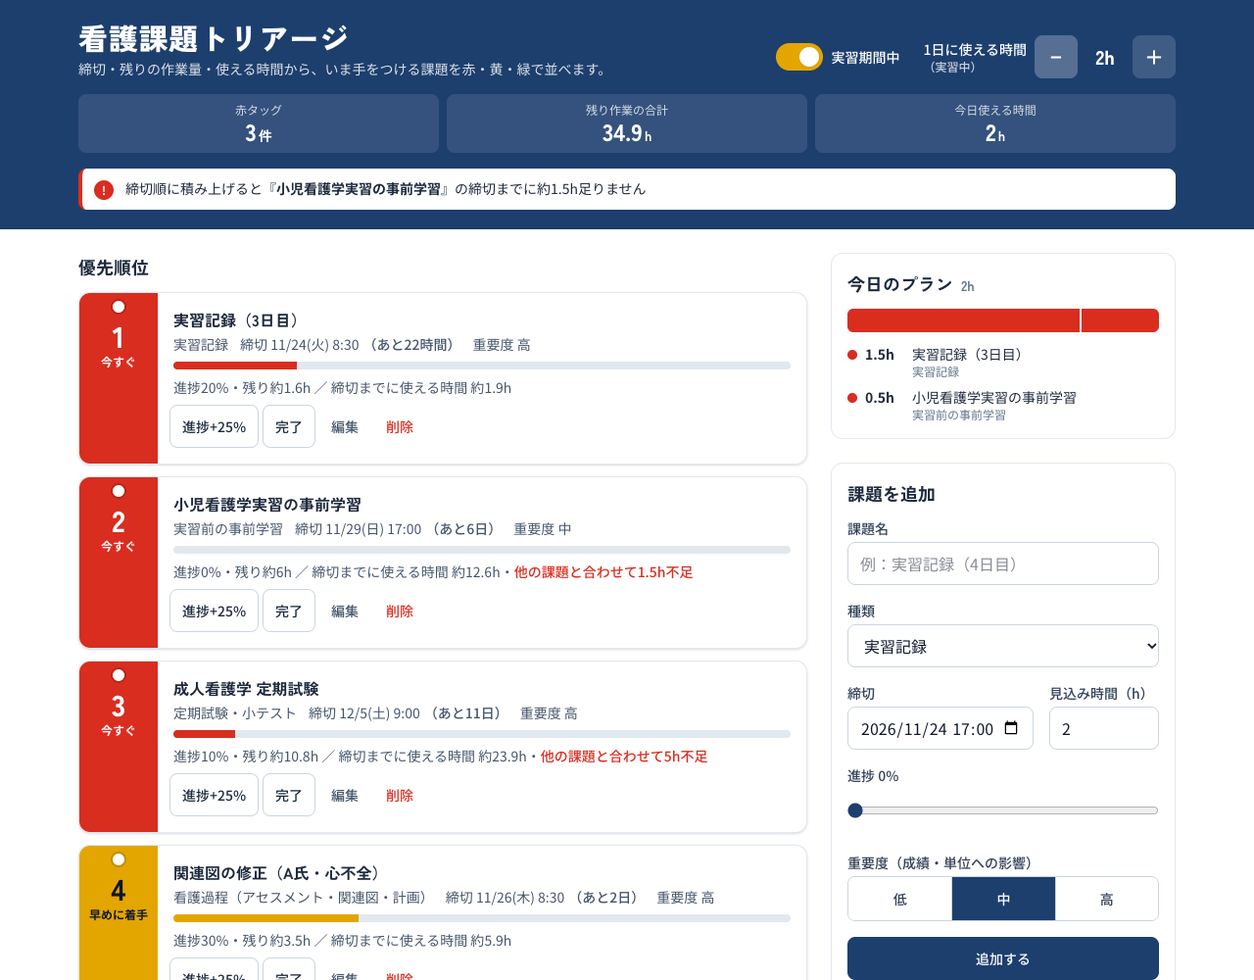
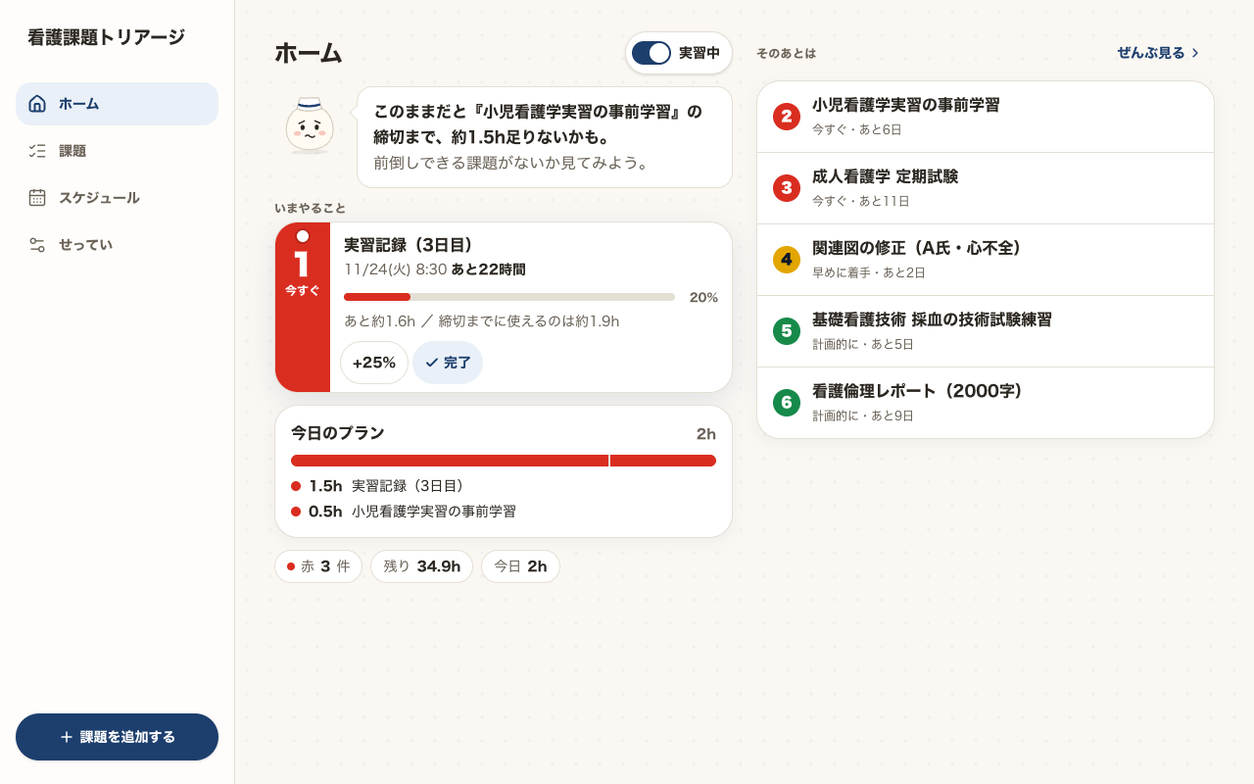
feat: 背の低いスマホでもホームを1画面に、SPEC・README を新しい画面に合わせて更新
- 高さ740px以下のスマホ（iPhone SE など）では、間隔を詰め、プランを1件・まとめを非表示・
  吹き出しを1行目だけにする。下の余白をメニューの高さに合わせる
- ホームの時間不足は吹き出しで伝える（警告の行は課題画面だけ）
- SPEC.md：2・3・4・8・9・10・14章を、画面の分割・夢のタネ寄りのデザイン・
  実習スケジュール・キャラクターに合わせて更新
- README：スクリーンショットを撮り直し、画面ごとの機能とキャラクターの絵の置き方を追記

diff --git a/src/components/HomeScreen.tsx b/src/components/HomeScreen.tsx
@@ -2,11 +2,13 @@ import { motion } from 'framer-motion'
 import { ChevronRight, Plus } from 'lucide-react'
 import type { ReactNode } from 'react'
 import { TRIAGE_STYLE } from '../constants'
+import type { Speech } from '../logic/speech'
 import { enter } from '../motion'
 import type { Analysed, Plan } from '../types'
 import { formatHours, formatRemaining } from '../utils/format'
-import { OverloadWarning } from './OverloadWarning'
+import { SHORT_SCREEN, useMedia } from '../utils/useMedia'
 import { PracticeSwitch } from './PracticeSwitch'
+import { CharaSpeech } from './Speech'
 import { TaskCard } from './TaskCard'
 import { TodayPlan } from './TodayPlan'
 
@@ -15,11 +17,10 @@ interface Props {
   plan: Plan
   practice: boolean
   practiceNote: string | null
-  shortage: Analysed | undefined
   redCount: number
   remainTotal: number
-  /** キャラクターと吹き出し（段階3で入る） */
-  greeting?: ReactNode
+  /** キャラクターのひとこと（時間不足の警告もここで伝える） */
+  speech: Speech
   onTogglePractice: () => void
   onAdvance: (id: string) => void
   onComplete: (id: string) => void
@@ -41,10 +42,9 @@ export function HomeScreen({
   plan,
   practice,
   practiceNote,
-  shortage,
   redCount,
   remainTotal,
-  greeting,
+  speech,
   onTogglePractice,
   onAdvance,
   onComplete,
@@ -53,17 +53,19 @@ export function HomeScreen({
 }: Props) {
   const top = analysed[0]
   const rest = analysed.slice(1, 6)
+  // 背の低いスマホでは、1画面に収めるため項目を減らす（夢のタネと同じ考え方）
+  const short = useMedia(SHORT_SCREEN)
 
   return (
     <div className="grid grid-cols-1 gap-3 two:grid-cols-[minmax(0,1fr)_minmax(0,1fr)] two:gap-6">
-      <div className="flex min-w-0 flex-col gap-3">
+      <div className="flex min-w-0 flex-col gap-3 short:gap-2">
         <div className="flex items-center justify-between gap-3">
           <p className="text-sm font-bold text-ink-muted wide:hidden">看護課題トリアージ</p>
           <h1 className="ui-page-title hidden wide:block">ホーム</h1>
           <PracticeSwitch on={practice} note={practiceNote} onToggle={onTogglePractice} />
         </div>
 
-        {greeting ?? <OverloadWarning a={shortage} />}
+        <CharaSpeech speech={speech} size={short ? 56 : 72} firstLineOnly={short} />
 
         <motion.section aria-labelledby="now-heading" {...enter(0)}>
           <h2 id="now-heading" className="ui-section-label mb-1.5">
@@ -86,10 +88,10 @@ export function HomeScreen({
         </motion.section>
 
         <motion.div {...enter(0.08)}>
-          <TodayPlan plan={plan} limit={3} />
+          <TodayPlan plan={plan} limit={short ? 1 : 3} />
         </motion.div>
 
-        <div className="flex flex-wrap gap-2" aria-label="まとめ">
+        <div className="flex flex-wrap gap-2 short:hidden" aria-label="まとめ">
           <Pill>
             <span aria-hidden className={`size-2 rounded-full ${TRIAGE_STYLE.red.dot}`} />赤
             <b className="text-ink tabular-nums">{redCount}</b>件

diff --git a/src/App.tsx b/src/App.tsx
@@ -1,7 +1,6 @@
 import { AnimatePresence, motion } from 'framer-motion'
 import { useCallback, useMemo, useState } from 'react'
 import { HomeScreen } from './components/HomeScreen'
-import { CharaSpeech } from './components/Speech'
 import { BottomNav, DesktopNav, type Screen } from './components/Nav'
 import { ScheduleScreen } from './components/ScheduleScreen'
 import { SettingsScreen } from './components/SettingsScreen'
@@ -77,7 +76,7 @@ export default function App() {
     <div className="min-h-dvh wide:pl-60">
       <DesktopNav current={screen} onNavigate={navigate} onAdd={openAdd} />
 
-      <main className="mx-auto max-w-md px-4 pt-5 pb-28 wide:max-w-5xl wide:px-8 wide:pt-8 wide:pb-12">
+      <main className="mx-auto max-w-md px-4 pt-5 pb-[calc(5.5rem+env(safe-area-inset-bottom))] short:pt-3 short:pb-[calc(4.5rem+env(safe-area-inset-bottom))] wide:max-w-5xl wide:px-8 wide:pt-8 wide:pb-12">
         {/* 画面の切り替えは位置を動かさず、透明度だけのフェード（夢のタネと同じ） */}
         <AnimatePresence mode="wait" initial={false}>
           <motion.div
@@ -93,10 +92,9 @@ export default function App() {
                 plan={plan}
                 practice={practice}
                 practiceNote={practiceNote}
-                shortage={shortage}
                 redCount={redCount}
                 remainTotal={remainTotal}
-                greeting={<CharaSpeech speech={speech} />}
+                speech={speech}
                 onTogglePractice={togglePractice}
                 onAdvance={advance}
                 onComplete={complete}

diff --git a/src/components/Speech.tsx b/src/components/Speech.tsx
@@ -10,7 +10,10 @@ function Bubble({ lines }: { lines: string[] }) {
         className="absolute top-5 -left-1.5 size-3 rotate-45 border-b border-l border-line bg-surface"
       />
       {lines.map((line, i) => (
-        <p key={i} className={`leading-relaxed ${i === 0 ? 'font-bold' : 'text-ink-muted'}`}>
+        <p
+          key={i}
+          className={`leading-relaxed short:text-[15px] ${i === 0 ? 'font-bold' : 'text-ink-muted'}`}
+        >
           {line}
         </p>
       ))}
@@ -19,11 +22,20 @@ function Bubble({ lines }: { lines: string[] }) {
 }
 
 /** キャラクター＋吹き出し */
-export function CharaSpeech({ speech, size = 72 }: { speech: SpeechData; size?: number }) {
+export function CharaSpeech({
+  speech,
+  size = 72,
+  firstLineOnly = false,
+}: {
+  speech: SpeechData
+  size?: number
+  /** 背の低い画面では1行目だけにする */
+  firstLineOnly?: boolean
+}) {
   return (
     <div className="flex items-start gap-3" aria-live="polite">
       <Chara mood={speech.mood} size={size} />
-      <Bubble lines={speech.lines} />
+      <Bubble lines={firstLineOnly ? speech.lines.slice(0, 1) : speech.lines} />
     </div>
   )
 }

diff --git a/src/utils/useMedia.ts b/src/utils/useMedia.ts
@@ -1,0 +1,17 @@
+import { useSyncExternalStore } from 'react'
+
+/** メディアクエリに合っているか（画面サイズが変わると更新される） */
+export function useMedia(query: string): boolean {
+  return useSyncExternalStore(
+    (onChange) => {
+      const m = window.matchMedia(query)
+      m.addEventListener('change', onChange)
+      return () => m.removeEventListener('change', onChange)
+    },
+    () => window.matchMedia(query).matches,
+    () => false,
+  )
+}
+
+/** 背の低いスマホ（iPhone SE など）。ホームを1画面に収めるため、項目を減らす */
+export const SHORT_SCREEN = '(max-width: 860px) and (max-height: 740px)'

diff --git a/src/index.css b/src/index.css
@@ -36,6 +36,9 @@
   --breakpoint-two: 1100px;
 }
 
+/* 背の低いスマホ（iPhone SE など）。utils/useMedia.ts の SHORT_SCREEN と同じ条件 */
+@custom-variant short (@media (max-width: 860px) and (max-height: 740px));
+
 @media (prefers-color-scheme: dark) {
   :root {
     --color-paper: #1c1915;

diff --git a/SPEC.md b/SPEC.md
@@ -17,7 +17,8 @@
 - Tailwind CSS
 - 状態管理：React の useReducer + Context（外部ライブラリなし）
 - 保存：localStorage（バックエンドなし）
-- テスト：Vitest（優先度ロジックは必ずテストを書く）
+- アニメーション：framer-motion、アイコン：lucide-react
+- テスト：Vitest（優先度ロジックは必ずテストを書く。日付の境界を確かめるため TZ=Asia/Tokyo で実行）
 - デプロイ：Vercel
 - リポジトリ：`~/dev/nurse-triage`
 
@@ -26,30 +27,30 @@
 ```
 src/
   main.tsx
-  App.tsx
+  App.tsx             # 画面の切り替え（useState。ルーターは使わない）
   types.ts            # 型定義
-  constants.ts        # 課題の種類プリセット
-  logic/
-    priority.ts       # 優先度計算（純粋関数のみ）
-    priority.test.ts
+  constants.ts        # 課題の種類プリセット・タッグの色
+  motion.ts           # 動きの決まり（長さ・距離・緩み方）
+  index.css           # 色のトークン・共通クラス（ui-*）
+  assets/chara/       # キャラクターの画像（置くと自動で使われる）
+  logic/              # 純粋関数とテスト
+    priority.ts       # 優先度計算
     plan.ts           # 今日のプラン割り振り
-    plan.test.ts
+    schedule.ts       # 実習スケジュール（日ごとの使える時間）
+    speech.ts         # キャラクターのひとこと
   store/
     reducer.ts
     storage.ts        # localStorage の読み書き（try/catch）
     sample.ts         # サンプル課題
+    context.ts / StoreProvider.tsx
   components/
-    Header.tsx        # タイトル・設定・集計
-    OverloadWarning.tsx
-    TaskCard.tsx
-    TaskList.tsx
-    TodayPlan.tsx
-    TaskForm.tsx
-    DoneList.tsx
-    HowItWorks.tsx
-    UndoToast.tsx
+    HomeScreen.tsx / TasksScreen.tsx / ScheduleScreen.tsx / SettingsScreen.tsx
+    Nav.tsx           # 下のメニュー（スマホ）・左のメニュー（PC）
+    TaskSheet.tsx     # 課題の追加・編集パネル（中に TaskForm.tsx）
+    TaskCard.tsx / TodayPlan.tsx / Chara.tsx / Speech.tsx / UndoToast.tsx など
   utils/
     format.ts         # 日付・時間の表示
+    useMedia.ts       # 画面サイズの判定
 ```
 
 ## 4. データモデル（types.ts）
@@ -71,10 +72,14 @@ interface Task {
 }
 
 interface Settings {
-  practiceMode: boolean;   // 実習期間中か
+  practiceMode: boolean;   // 実習期間中か（スケジュールに今日以降の印がないとき使う）
   hoursPractice: number;   // 実習中の1日の作業時間（初期値 2.5）
   hoursNormal: number;     // 通常期の1日の作業時間（初期値 4）
+  practiceOverride?: { date: string; on: boolean }; // 今日だけの手動切り替え
 }
+
+type DayKind = "practice" | "off";          // 印のない日は通常日
+type Schedule = Record<string, DayKind>;    // キーはローカル時刻の YYYY-MM-DD
 
 type Triage = "red" | "yellow" | "green";
 ```
@@ -133,40 +138,51 @@ score    = (0.6 × min(ratio, 2)/2 + 0.4 × 1/(1 + max(days, 0))) × w × imp ×
 
 ## 8. 画面
 
-**ヘッダー（紺の帯）**
-- タイトル「看護課題トリアージ」と一行説明
-- 実習期間中トグル、1日に使える時間（モードごとに別の値を保存）
-- 集計3つ：赤タッグの件数／残り作業の合計h／今日使える時間h
-- 時間不足の警告：締切が最も早い不足課題について「締切順に積み上げると『○○』の締切までに約2h足りません」
+スマホは主要な画面を1画面に収め、下のピル型メニューで移る。861px 以上は左にメニューを常に出す。
 
-**左：優先順位リスト（TaskCard）**
-- 左端にトリアージタッグ（色・順位番号・ラベル・紐穴の丸）
-- 課題名／種類・締切「11/24(火) 8:30」・残り時間「あと14時間」「あと3日」・重要度
-- 進捗バー
-- 根拠の一行：「進捗20%・残り約1.6h ／ 締切までに使える時間 約0.8h・他の課題と合わせて0.8h不足（赤字）」
-- ボタン：進捗+25%（100%で自動完了）／完了／編集／削除
+**ホーム**（スマホでは1画面に収める。390×844、iPhone SE の 375×667 で確認）
+- キャラクターと吹き出し：状況に応じたひとこと（`logic/speech.ts`）。時間不足の警告もここで伝える
+  - 優先順：課題なし → 期限切れ → 時間不足 → 24時間以内 → 今日は休み → 追い込まれている → ふつう
+- 右上に「実習中」スイッチ（スケジュールがあれば自動、今日だけ手動で切り替え可）
+- いまやること：1位の課題のカード（タッグ・締切・残り時間・進捗・根拠・+25%・完了）
+- 今日のプラン：積み上げバーと上位3件
+- まとめ：赤の件数／残りの合計／今日の時間
+- 課題を追加するボタン
+- 高さ740px以下のスマホでは、間隔を詰め、プランを1件・まとめを非表示・吹き出しを1行目だけにする
+- 1100px 以上では右に2〜6位の一覧
 
-**右：今日のプラン → 課題フォーム → 優先度の決め方（折りたたみ）**
-- フォーム：課題名、種類、締切（datetime-local）、見込み時間、進捗スライダー、重要度（低・中・高のセグメント）
-- 編集中は見出しを「課題を編集」、ボタンを「保存する」にして、キャンセルを出す
-- 「優先度の決め方」の中に「サンプルに戻す」「すべて消す」
+**課題**：未完了／完了のタブ
+- 未完了：優先順位どおりのカード。左端にトリアージタッグ（色・順位番号・ラベル・紐穴の丸）、課題名／種類・締切「11/24(火) 8:30」・残り時間「あと14時間」「あと3日」・重要度、進捗バー、根拠の一行「あと約1.6h ／ 締切までに使えるのは約0.8h・ほかの課題と合わせると0.8h足りない（危険色）」、+25%（100%で自動完了）／完了／編集／削除
+- 完了：「戻す」で未完了に戻す
 
-**下：完了した課題（折りたたみ）**。「戻す」で未完了に戻す。
+**スケジュール**：月カレンダーで日をタップして「実習／休み」の印を付ける（同じ印の再タップで外す）。期間でまとめて塗る（開始日・終了日・種類・土日を除く）
 
-**トースト**：完了・削除・全消去のあと5秒間「元に戻す」を出す（直前の状態を1つ保持）。
+**せってい**：実習期間中、1日に使える時間（実習中・ふだんを並べて変える）、優先度の決め方（折りたたみ）、サンプルに戻す・すべて消す
+
+**課題の追加・編集**：スマホは画面下からせり上がるパネル、PC は中央のダイアログ。課題名、種類、締切（datetime-local）、見込み時間、進捗スライダー、成績・単位への影響（低・中・高）。Esc で閉じる
+
+**トースト**：完了・削除・全消去・サンプルに戻すのあと5秒間「元に戻す」を出す（直前の課題と完了一覧を1つ保持）
 
 ## 9. デザイン
 
-- 地は白、ヘッダーは紺 `#1d3f6e`、タッグ色は赤 `#d92d20`／黄 `#e3a600`（文字は濃色）／緑 `#178a4a`
-- フォント：見出し Zen Kaku Gothic New（700/900）、本文 Noto Sans JP
-- ダークモード対応（`prefers-color-scheme`）
-- 860px以下は1カラム（ヘッダー → リスト → プラン → フォーム）。360px幅で横スクロールが出ないこと
-- ボタンなどのタップ領域は44px以上。入力欄は16px（iOSでズームさせない）
-- 絵文字アイコンは使わない
+「夢のタネ」と同じ作り方にそろえ、生成りの紙のような温かい画面にする（Tailwind の初期値の色をそのまま使わない）。
+
+- **色**は役割ごとのトークン（`index.css` の `@theme`）。ダークモードは CSS 変数ごと切り替え、各所に `dark:` を書かない
+  - 背景：生成り `#fbf8f3`＋うっすらドット／文字：炭色 `#2b2620`、補足 `#6b6358`／枠線 `#e4dfd5`
+  - 差し色：紺 `#1d3f6e`（ボタン・選択中）
+  - タッグ：赤 `#d92d20`／黄 `#e3a600`（文字は濃色）／緑 `#178a4a`。判定の意味を持つので、それ以外の場所に使わない（差し色に緑・朱色を使わないのもこのため）
+  - ダーク：背景 `#1c1915`、カード `#26221d`、文字 `#f1ece4`（冷たい灰色にしない）
+- **部品**は共通クラス（`ui-card`・`ui-tag`・`ui-input` など）で1通りずつ。角丸はカード 3xl／入力欄 2xl／カレンダーのマス xl／ボタン・タグ full
+- **フォント**：システムフォント（ヒラギノ → Noto Sans JP）
+- **動き**：`motion.ts` の決まり（0.3秒・16px・ease-out、カードは0.08秒ずつ）。押すと0.15秒で97%に縮む。「視差効果を減らす」の人には控えめにする
+- **キャラクター**：話しかけてくる。絵は `src/assets/chara/{normal,worry,happy}.png` に置く（透過 PNG）。ない表情は仮の SVG
+- **口調**：やわらかい話し言葉（「〜しよう」「〜だよ」）。カッコ書きの補足を減らす
+- 360px 幅で横スクロールが出ないこと。タップ領域は44px以上。入力欄は16px（iOSでズームさせない）
+- 絵文字アイコンは使わない（アイコンは lucide-react）
 
 ## 10. 保存
 
-- キー `nurse-triage-v1` に `{ tasks, done, settings }` を保存する
+- キー `nurse-triage-v1` に `{ tasks, done, settings, schedule }` を保存する（schedule のない古いデータは `{}` で補う。60日より前の印は読み込み時に消す）
 - 読み書きは try/catch で囲み、失敗してもアプリは動くこと
 - データがないときはサンプル課題で始める（締切は「今日から○日後」で生成）
 
@@ -213,5 +229,5 @@ score    = (0.6 × min(ratio, 2)/2 + 0.4 × 1/(1 + max(days, 0))) × w × imp ×
 
 - ログイン・クラウド同期
 - 通知
-- 時間割や実習スケジュールの取り込み
+- 時間割の取り込み、カレンダーファイル（.ics）の読み込み（実習スケジュールは手で印を付ける形で実装済み）
 （どれも将来の拡張候補。README に「今後やりたいこと」として書く）

diff --git a/README.md b/README.md
@@ -16,21 +16,27 @@
 
 ## スクリーンショット
 
-| PC（ライト）                                                                                                                                                          | スマホ（ダーク）                                                                                                                             |
-| --------------------------------------------------------------------------------------------------------------------------------------------------------------------- | -------------------------------------------------------------------------------------------------------------------------------------------- |
-| <img src="docs/screenshot-desktop.png" alt="PC 幅の画面。ヘッダーに時間不足の警告、左に赤・黄のタッグが付いた課題リスト、右に今日のプランと課題フォーム" width="560"> | <img src="docs/screenshot-mobile-dark.png" alt="スマホ幅・ダークモードの画面。ヘッダーの集計と警告の下に、赤タッグの課題が並ぶ" width="240"> |
+| スマホ：ホーム                                                                                                                                                                                                                        | スマホ：課題（ダーク）                                                                                                                                                 | PC：ホーム                                                                                                                                                      |
+| ------------------------------------------------------------------------------------------------------------------------------------------------------------------------------------------------------------------------------------- | ---------------------------------------------------------------------------------------------------------------------------------------------------------------------- | --------------------------------------------------------------------------------------------------------------------------------------------------------------- |
+| <img src="docs/screenshot-mobile.png" alt="スマホのホーム。キャラクターが『小児看護学実習の事前学習の締切まで約1.5h足りないかも』と話し、その下にいまやる課題のカード、今日のプラン、課題を追加するボタン、下にメニュー" width="220"> | <img src="docs/screenshot-mobile-dark.png" alt="スマホの課題画面（ダークモード）。未完了・完了のタブ、時間不足の警告、赤いタッグの付いた課題カードが並ぶ" width="220"> | <img src="docs/screenshot-desktop.png" alt="PC のホーム。左にメニュー、中央にキャラクターの吹き出し・いまやる課題・今日のプラン、右に2〜6位の課題" width="480"> |
 
-実習期間中・1日2時間の例です。締切が6日後の「小児看護学実習の事前学習」は単体なら間に合いますが、締切の早い課題と合わせると1.5h足りないので赤になっています。
+実習期間中・1日2時間の例です。締切が6日後の「小児看護学実習の事前学習」は単体なら間に合いますが、締切の早い課題と合わせると1.5h足りないので赤になり、キャラクターが知らせています。
 
 ## 主な機能
 
-- 課題の追加・編集・削除、進捗+25%（100%で自動で完了）、完了・完了一覧から「戻す」
+- **ホーム**（スマホでは1画面に収まる）：キャラクターのひとこと、いまやる1件、今日のプラン、赤の件数・残り・今日の時間
+- **課題**：優先順位の一覧（未完了／完了のタブ）。追加・編集は画面下からせり上がるパネル、進捗+25%（100%で自動で完了）、完了・削除・完了から「戻す」
+- **スケジュール**：カレンダーで日ごとに「実習」「休み」の印を付ける（タップ、または期間・土日除外でまとめて）。締切までに使える時間を日ごとの予定で計算し、今日が実習日なら「実習中」も自動でオン
+- **せってい**：実習期間中、1日に使える時間（実習中・ふだん）、優先度の決め方、サンプルに戻す・すべて消す
 - 完了・削除・全消去のあと5秒間「元に戻す」
-- 実習期間中トグルと、1日に使える時間（実習中・通常期で別々に保存）
-- 実習スケジュール：カレンダーで日ごとに「実習」「休み」の印を付ける（タップ、または期間・土日除外でまとめて）。締切までに使える時間を日ごとの予定で計算し、今日が実習日なら実習期間中トグルも自動で ON
-- 集計：赤タッグの件数／残り作業の合計／今日使える時間
 - データはブラウザの localStorage に保存（ログイン不要・サーバーに送らない）
-- スマホ対応（360px 幅〜）・ダークモード対応
+- スマホ対応（360px 幅〜、iPhone SE でもホームが1画面）・ダークモード対応
+
+## キャラクターの絵
+
+`src/assets/chara/` に `normal.png`（ふつう）・`worry.png`（心配）・`happy.png`（うれしい）を置くと、ビルド時に自動で読み込まれて差し替わります。置いていない表情は仮の SVG のままです。透過 PNG・正方形（512px 推奨）で用意してください（詳しくは [src/assets/chara/README.md](src/assets/chara/README.md)）。
+
+ひとことは `src/logic/speech.ts` が状況から決めます（課題なし → 期限切れ → 時間不足 → 24時間以内 → 休みの日 → 追い込まれている → ふつう）。
 
 ## 優先度の決め方
 
@@ -130,17 +136,19 @@ npx vercel --prod
 ## 技術構成
 
 - React + Vite + TypeScript
-- Tailwind CSS v4
+- Tailwind CSS v4（色は役割ごとのトークン、部品は `ui-*` の共通クラス。ダークモードは CSS 変数ごと切り替え）
+- framer-motion（動きの決まりは `src/motion.ts`）、lucide-react（アイコン）
 - 状態管理：`useReducer` + Context（外部ライブラリなし）
 - 保存：localStorage（キー `nurse-triage-v1`）
-- テスト：Vitest（優先度ロジック・プラン・実習スケジュール・reducer・保存・表示の整形）。日付の境界を確かめるため、`Asia/Tokyo` 固定で実行
+- テスト：Vitest（優先度ロジック・プラン・実習スケジュール・ひとこと・reducer・保存・表示の整形）。日付の境界を確かめるため、`Asia/Tokyo` 固定で実行
 
 ```
 src/
   types.ts / constants.ts   型定義・課題の種類プリセット
-  logic/                    優先度計算・プラン・実習スケジュール（純粋関数）とテスト
+  logic/                    優先度計算・プラン・実習スケジュール・ひとこと（純粋関数）とテスト
   store/                    reducer・localStorage・サンプル課題・Context
-  components/               画面の部品
+  components/               4つの画面（Home/Tasks/Schedule/Settings）・メニュー・パネル・部品
+  assets/chara/             キャラクターの画像
   utils/format.ts           日付・時間の表示
 ```
 
